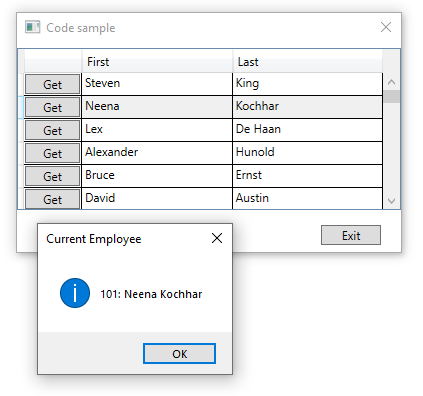
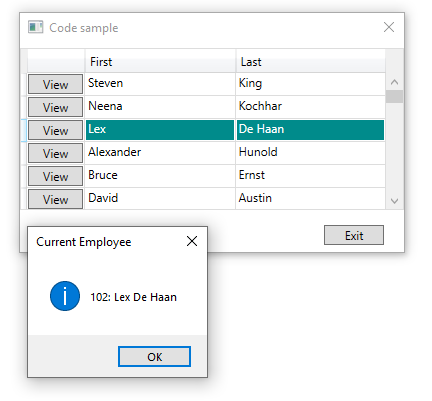
DataGrid styling

Changed region(s): [[0.0307, 0.0303, 0.9835, 0.9697], [0.2459, 0.8788, 0.2766, 0.9091]]

diff --git a/WpfApp1/App.xaml b/WpfApp1/App.xaml
@@ -4,6 +4,68 @@
              xmlns:local="clr-namespace:WpfApp1"
              StartupUri="MainWindow.xaml">
     <Application.Resources>
+        <Style TargetType="DataGrid">
+
+            <Setter Property="BorderBrush" Value="#DDDDDD" />
+            <Setter Property="HorizontalGridLinesBrush" Value="#DDDDDD" />
+            <Setter Property="VerticalGridLinesBrush" Value="#DDDDDD" />
+
+            <Setter Property="RowStyle">
+                <Setter.Value>
+                    <Style TargetType="DataGridRow">
+                        <Style.Triggers>
+                            <!-- Highlight a grid row as the mouse passes over -->
+                            <Trigger Property="IsMouseOver" Value="True">
+                                <Setter Property="Background" Value="LightGray" />
+                            </Trigger>
+                        </Style.Triggers>
+                    </Style>
+                </Setter.Value>
+            </Setter>
+
+            <Setter Property="CellStyle">
+                <Setter.Value>
+                    <Style TargetType="DataGridCell">
+                        <Style.Triggers>
+                            <!-- Highlight selected rows -->
+                            <Trigger Property="IsSelected" Value="True">
+                                <Setter Property="Background" Value="DarkCyan" />
+                                <Setter Property="BorderBrush" Value="Transparent" />
+                                <Setter Property="Foreground" Value="White" />
+                            </Trigger>
+                            <Trigger Property="IsFocused" Value="True">
+                                <Setter Property="Background" Value="DarkCyan" />
+                                <Setter Property="BorderBrush" Value="Black" />
+                                <Setter Property="BorderThickness" Value="1"/>
+                                <Setter Property="Foreground" Value="White" />
+                            </Trigger>
+                        </Style.Triggers>
+
+                        <Setter Property="BorderBrush" Value="Transparent"/>
+
+                        <Setter Property="Template">
+                            <Setter.Value>
+                                <ControlTemplate TargetType="DataGridCell">
+                                    <Border Padding="{TemplateBinding Padding}" 
+                                            BorderBrush="{TemplateBinding BorderBrush}"
+                                            BorderThickness="{TemplateBinding BorderThickness}"
+                                            Background="{TemplateBinding Background}">
+                                        <ContentPresenter />
+                                    </Border>
+                                </ControlTemplate>
+                            </Setter.Value>
+                        </Setter>
+                        <Setter Property="FocusVisualStyle">
+                            <Setter.Value>
+                                <Style TargetType="Control">
+                                    <Setter Property="BorderBrush" Value="Transparent" />
+                                </Style>
+                            </Setter.Value>
+                        </Setter>
+                    </Style>
+                </Setter.Value>
+            </Setter>
+        </Style>
     </Application.Resources>
 
 </Application>

diff --git a/WpfApp1/MainWindow.xaml b/WpfApp1/MainWindow.xaml
@@ -20,7 +20,7 @@
                 <DataGridTemplateColumn>
                     <DataGridTemplateColumn.CellTemplate>
                         <DataTemplate>
-                            <Button Width="55" Click="ChangeText" Content="Get"/>
+                            <Button Width="55" Click="ChangeText" Content="View"/>
                         </DataTemplate>
                     </DataGridTemplateColumn.CellTemplate>
                 </DataGridTemplateColumn>

diff --git a/WpfApp1/MainWindow.xaml.cs b/WpfApp1/MainWindow.xaml.cs
@@ -43,7 +43,7 @@ namespace WpfApp1
 
             using (var context = new HRContext())
             {
-                var employeeCollection = new ObservableCollection<Employees>(context.Employees.ToList());
+                var employeeCollection = new ObservableCollection<Employees>(context.Employees.AsQueryable());
                 EmployeeGrid.ItemsSource = employeeCollection;
             }
 
